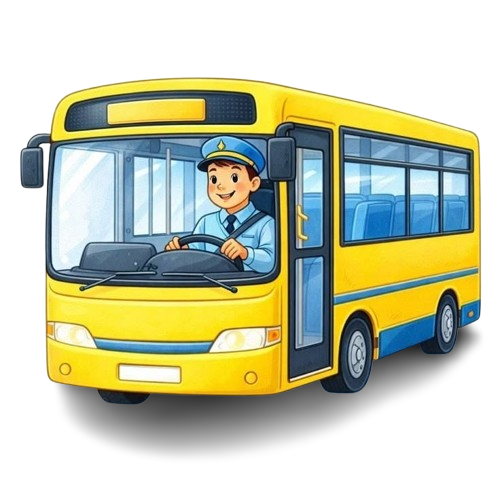
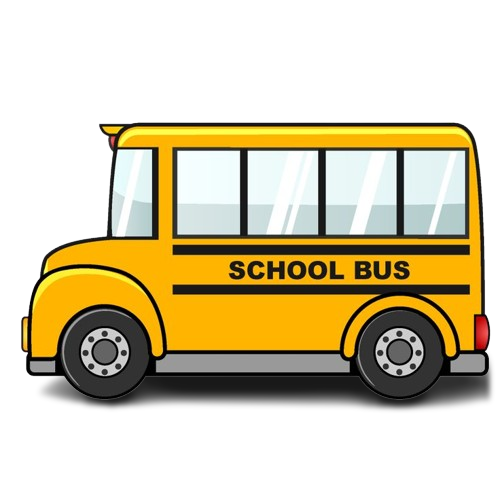
Update bus image direction to right-to-left and text overlay

diff --git a/apps/frontend/src/pages/landing.tsx b/apps/frontend/src/pages/landing.tsx
@@ -141,10 +141,12 @@ export default function Landing() {
         <div className="relative w-full max-w-xl mx-auto h-20 mb-2 overflow-hidden rounded-full border border-slate-800/50 bg-slate-900/30 shadow-inner">
           <div className="absolute top-1" style={{ animation: "bus-drive 12s linear infinite" }}>
             <div className="relative inline-block h-16 w-32">
-              <img src="/bus.png" alt="Bus" className="h-full w-full object-contain scale-x-[-1] drop-shadow-md" />
-              <span className="absolute top-[45%] left-[30%] -translate-y-1/2 text-[0.45rem] font-black text-slate-800 tracking-wider z-10">
-                OrbitTrack
-              </span>
+              <img src="/bus.png" alt="Bus" className="h-full w-full object-contain drop-shadow-md" />
+              <div className="absolute top-[52%] left-[48%] -translate-x-1/2 -translate-y-1/2 bg-[#FFCD00] px-1 py-[2px] rounded-sm z-10 flex items-center justify-center">
+                <span className="text-[0.4rem] font-black text-slate-900 tracking-tighter whitespace-nowrap">
+                  ORBIT TRACK
+                </span>
+              </div>
             </div>
           </div>
         </div>
@@ -314,18 +316,22 @@ export default function Landing() {
         <div className="absolute inset-x-0 bottom-4 h-0.5 border-t border-dashed border-slate-700"></div>
         <div className="absolute top-1 bus-drive">
           <div className="relative inline-block h-16 w-32">
-            <img src="/bus.png" alt="Bus" className="h-full w-full object-contain scale-x-[-1] drop-shadow-md" />
-            <span className="absolute top-[45%] left-[30%] -translate-y-1/2 text-[0.45rem] font-black text-slate-800 tracking-wider z-10">
-              OrbitTrack
-            </span>
+            <img src="/bus.png" alt="Bus" className="h-full w-full object-contain drop-shadow-md" />
+            <div className="absolute top-[52%] left-[48%] -translate-x-1/2 -translate-y-1/2 bg-[#FFCD00] px-1 py-[2px] rounded-sm z-10 flex items-center justify-center">
+              <span className="text-[0.4rem] font-black text-slate-900 tracking-tighter whitespace-nowrap">
+                ORBIT TRACK
+              </span>
+            </div>
           </div>
         </div>
         <div className="absolute top-4 bus-drive2 opacity-40">
           <div className="relative inline-block h-12 w-24">
-            <img src="/bus.png" alt="Bus" className="h-full w-full object-contain scale-x-[-1] drop-shadow-sm" />
-            <span className="absolute top-[45%] left-[30%] -translate-y-1/2 text-[0.35rem] font-black text-slate-800 tracking-wider z-10">
-              OrbitTrack
-            </span>
+            <img src="/bus.png" alt="Bus" className="h-full w-full object-contain drop-shadow-sm" />
+            <div className="absolute top-[52%] left-[48%] -translate-x-1/2 -translate-y-1/2 bg-[#FFCD00] px-[2px] py-[1px] rounded-sm z-10 flex items-center justify-center">
+              <span className="text-[0.3rem] font-black text-slate-900 tracking-tighter whitespace-nowrap">
+                ORBIT TRACK
+              </span>
+            </div>
           </div>
         </div>
       </div>

diff --git a/apps/frontend/src/index.css b/apps/frontend/src/index.css
@@ -4,12 +4,12 @@
 
 /* OrbitTrack bus animations */
 @keyframes bus-drive {
-  0% { transform: translateX(-220px); }
-  100% { transform: translateX(calc(100vw + 220px)); }
+  0% { transform: translateX(calc(100vw + 220px)); }
+  100% { transform: translateX(-220px); }
 }
 @keyframes bus-drive2 {
-  0% { transform: translateX(-120px); }
-  100% { transform: translateX(calc(100vw + 120px)); }
+  0% { transform: translateX(calc(100vw + 120px)); }
+  100% { transform: translateX(-120px); }
 }
 @keyframes bus-float {
   0%, 100% { transform: translateY(0px) rotate(-1deg); }
